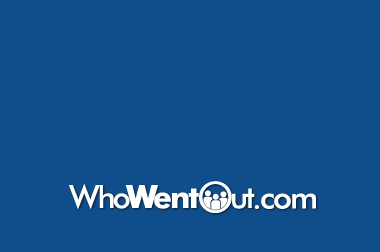
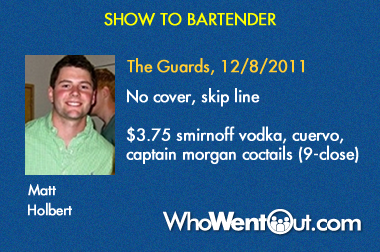
changed how the deal ticket looks

diff --git a/whowentout/features/deal/deal_ticket_generator.php b/whowentout/features/deal/deal_ticket_generator.php
@@ -19,14 +19,11 @@ class DealTicketGenerator
         $pic = WideImage::load($picture->url('thumb'));
         $this->print_picture($ticket, $pic);
 
-        $lines = array();
-        $lines[] = $user->first_name . ' ' . $user->last_name;
-        $lines[] = $venue;
-        $lines = array_merge($lines, explode("\\n", $deal));
+        $this->print_name($ticket, $user->first_name, $user->last_name);
 
-        $this->print_lines($ticket, $lines);
+        $this->print_deal($ticket, explode("\n", $deal));
 
-        $this->print_date($ticket, $date);
+        $this->print_venue_and_date($ticket, $venue, $date);
 
         $this->print_show_to_bartender_message($ticket);
 
@@ -39,37 +36,58 @@ class DealTicketGenerator
         $ticket = $ticket->merge($picture, 25, 55);
     }
 
-    private function print_lines(WideImage_Image &$ticket, array $lines)
+    private function print_venue_and_date(WideImage_Image &$ticket, $venue, $date)
     {
         $canvas = $ticket->getCanvas();
-        $canvas->useFont('../designs/fonts/Futura Medium.ttf', 16, $ticket->allocateColor(255, 255, 255));
+        $canvas->useFont($this->font_path(), 14, $ticket->allocateColor(255, 204, 51));
+
+        $canvas->writeText(130, 55, $venue . ', ' . $date);
+    }
+
+    private function print_deal(WideImage_Image &$ticket, array $lines)
+    {
+        $canvas = $ticket->getCanvas();
+        $canvas->useFont($this->font_path(), 14, $ticket->allocateColor(255, 255, 255));
 
         $x = 130;
-        $y = 55;
+        $y = 85;
 
         foreach ($lines as $current_line) {
             $canvas->writeText($x, $y, $current_line);
-            $y += 30;
+            $y += 25;
         }
     }
 
-    private function print_date(WideImage_Image &$ticket, $date)
+    private function print_name(WideImage_Image &$ticket, $first_name, $last_name)
     {
         $canvas = $ticket->getCanvas();
-        $canvas->useFont('../designs/fonts/Futura Medium.ttf', 10, $ticket->allocateColor(255, 255, 255));
-        $canvas->writeText('right - 12', 'top + 12', $date);
+        $canvas->useFont($this->font_path(), 14, $ticket->allocateColor(255, 255, 255));
+
+        $canvas->writeText(25, 180, $first_name);
+        $canvas->writeText(25, 200, $last_name);
     }
 
     private function print_show_to_bartender_message(WideImage_Image &$ticket)
     {
         $canvas = $ticket->getCanvas();
-        $canvas->useFont('../designs/fonts/Futura Medium.ttf', 13, $ticket->allocateColor(255, 255, 0));
-        $canvas->writeText(105, 15, 'SHOW TO BARTENDER');
+        $canvas->useFont($this->font_path(), 13, $ticket->allocateColor(255, 255, 0));
+        $canvas->writeText(25, 15, 'SHOW TO BARTENDER (21+ to drink)');
+    }
+
+    private function get_text_width($font_size, $text)
+    {
+        $box = imagettfbbox($font_size, 0, $this->font_path(), $text);
+        return $box[2] - $box[0];
     }
 
     private function blank_ticket()
     {
         return WideImage::load('./images/ticket_blank.png');
+    }
+
+    private function font_path()
+    {
+        return '../designs/fonts/Futura Medium.ttf';
     }
 
 }

diff --git a/whowentout/features/deal/deal_preview.display.php b/whowentout/features/deal/deal_preview.display.php
@@ -19,10 +19,11 @@ class Deal_Preview_Display extends Display
 
         $venue = $event->name;
         $deal = $event->deal;
-        $date = $event->date->format('m.d.Y');
+        $date = $event->date->format('M jS');
         $profile_picture = build('profile_picture', $user);
 
         $gen = new DealTicketGenerator();
+
         $ticket = $gen->generate($user, $profile_picture, $venue, $deal, $date);
 
         if ($this->orientation == 'portrait')

diff --git a/whowentout/admin/views/admin_events.tpl.php b/whowentout/admin/views/admin_events.tpl.php
@@ -23,7 +23,7 @@
 
         <div>
             <label>Deal</label>
-            <input type="text" name="event[deal]" autocomplete="off" />
+            <textarea rows="4" cols="100" name="event[deal]"></textarea>
         </div>
         
         <input type="submit" name="op" value="Create"/>
